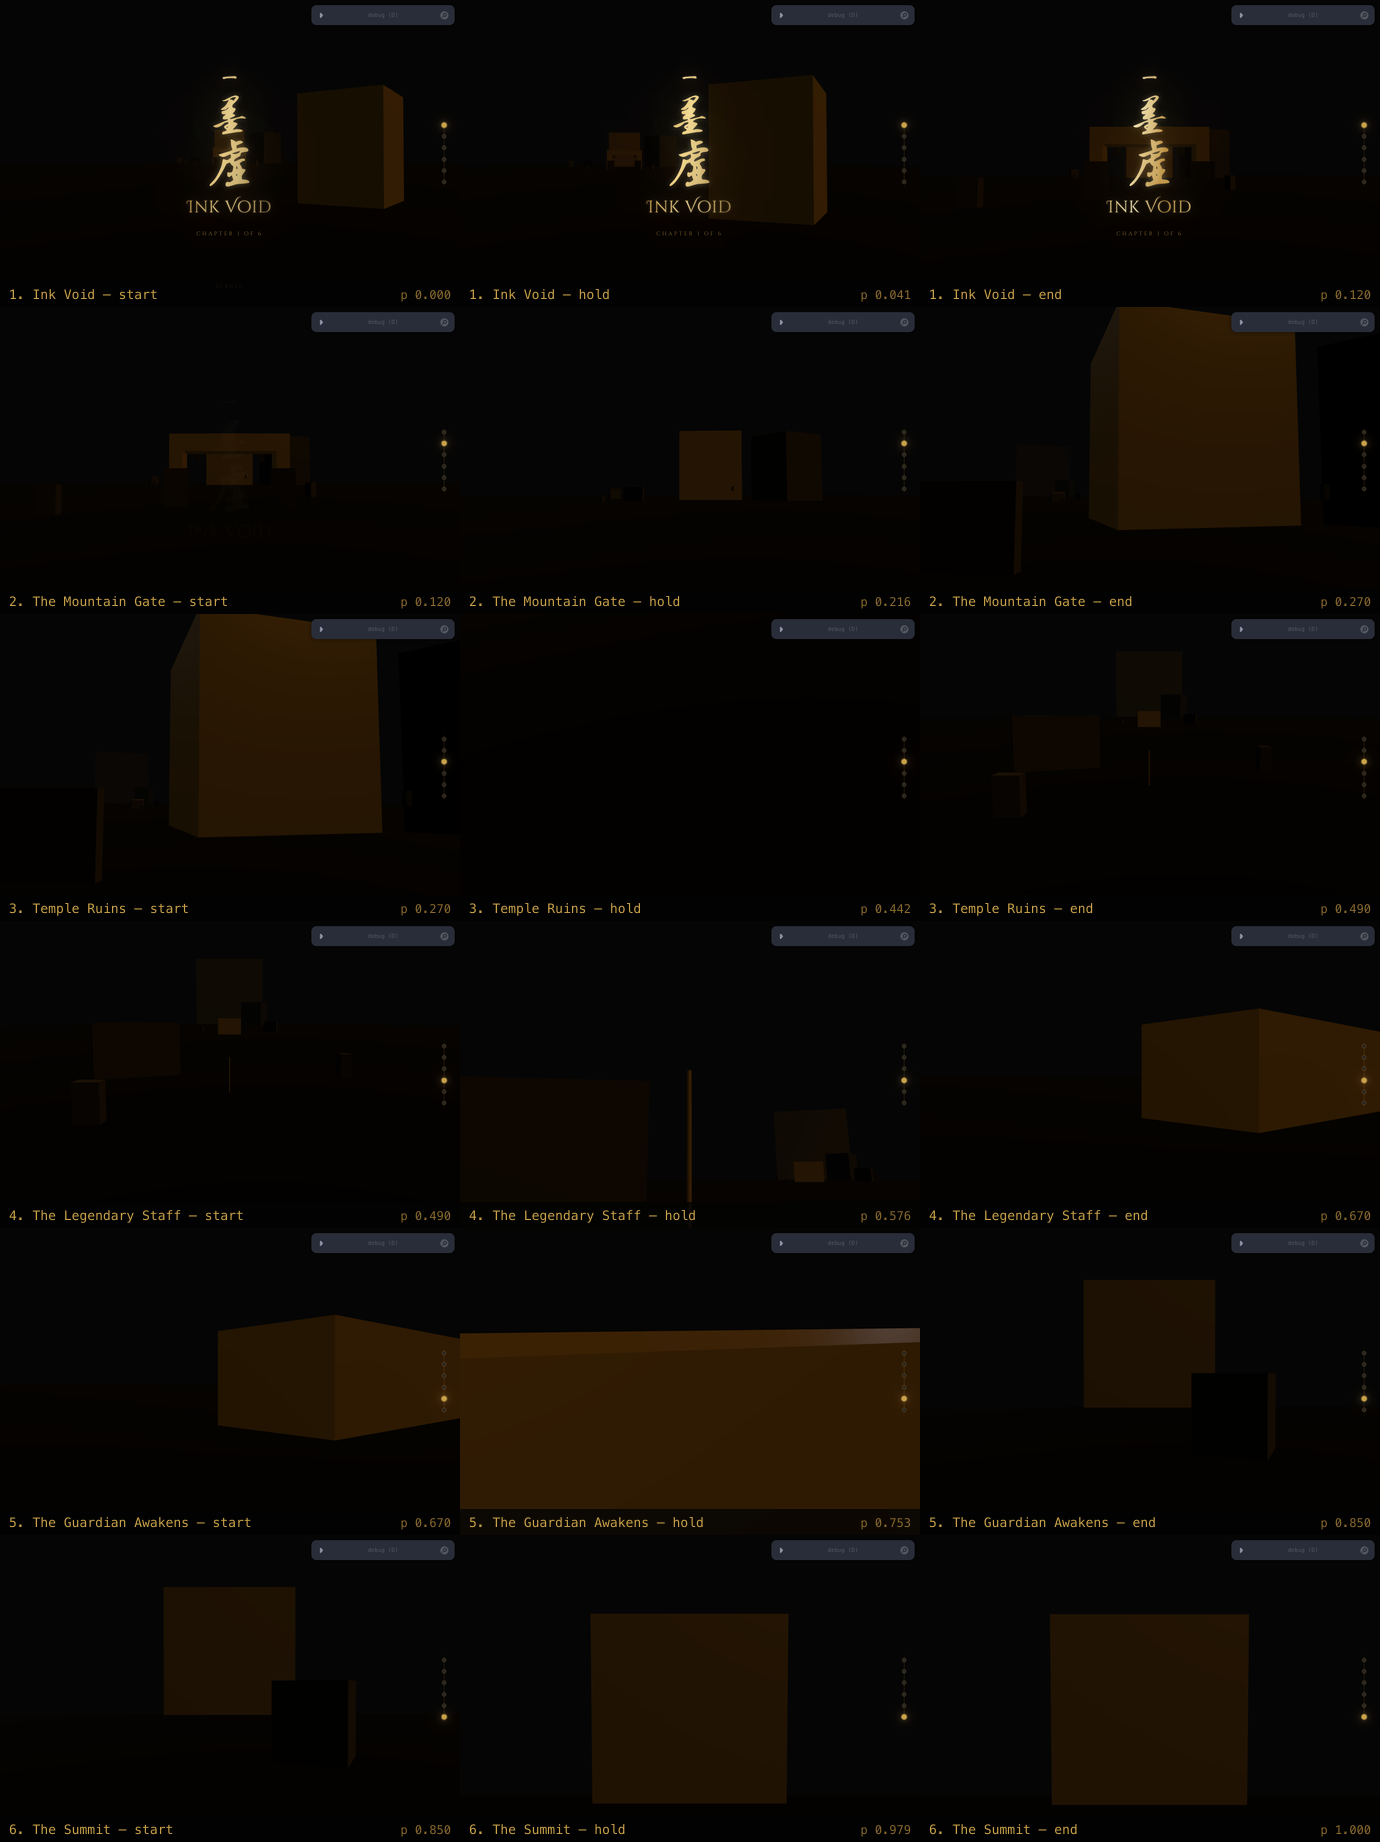
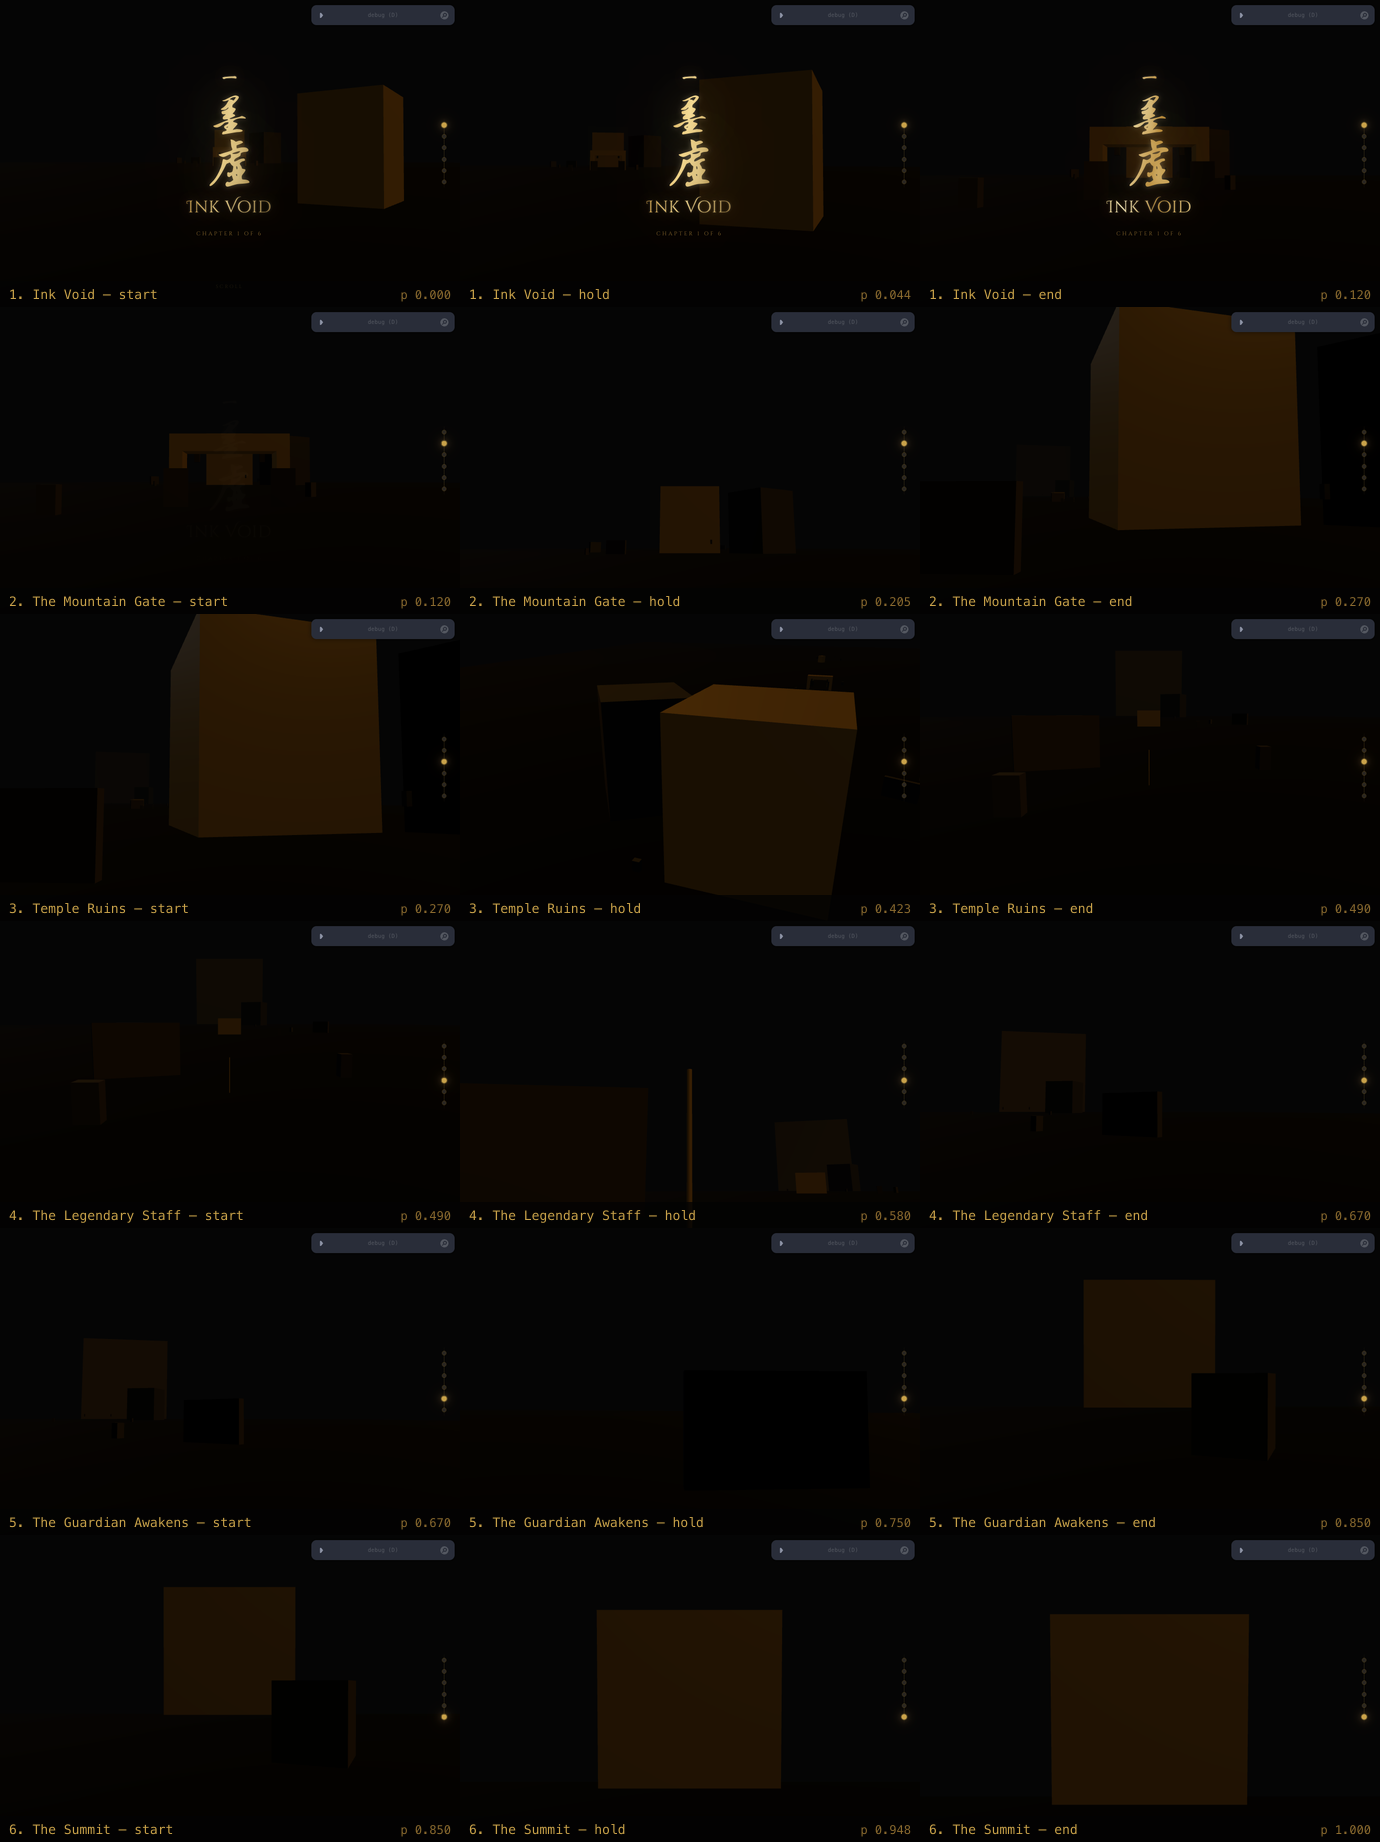
tune ch5: search looks away from the dragon; raise counter-light
The hold still framed the dragon as a wall because the look-at was
aimed at it. You cannot reveal something the camera has been staring
at, so the search now sweeps right, across, right again, and only
keypoint 4 turns back as the camera is pulled up and away.

Raised the cool counter-light 0.45 -> 0.95. With the key at +x, any
prop the camera looks at from its -x side showed only shadowed faces,
and chapter 5's hold came out solid black. The fill makes shadow sides
readable without flattening the key.

diff --git a/src/config/chapters.ts b/src/config/chapters.ts
@@ -201,11 +201,13 @@ export const CHAPTERS: Chapter[] = [
     // 40 m body at 2 m eye height is a wall across the whole frame, which
     // gives the reveal away — nothing can "appear" if it was already filling
     // the shot.
-    camera: [[22, 2.1, -436], [19, 2.0, -450], [16, 2.4, -462],
+    camera: [[24, 2.1, -436], [21, 2.0, -450], [18, 2.4, -462],
              [0, 26, -492], [-12, 36, -518]],
-    // Searching: left, right, left again while low, then tilts up as the
-    // camera is yanked backwards.
-    lookAt: [[-6, 2.0, -452], [14, 1.8, -464], [-2, 2.2, -470],
+    // The search looks AWAY from the dragon — out to the right, then across,
+    // then right again. Aiming at it during the search is self-defeating: you
+    // cannot reveal something the camera has been staring at for 20 seconds.
+    // Only keypoint 4 turns back, as the camera is yanked up and away.
+    lookAt: [[26, 3.0, -446], [6, 2.2, -480], [25, 3.0, -468],
              [0, 7, -478], [0, 4, -482]],
     // Keypoint 2: the end of the search, immediately before the pull-back.
     hold: { on: 2, width: 0.38, slow: 0.15 },
@@ -213,8 +215,8 @@ export const CHAPTERS: Chapter[] = [
       // 40 m along Z — the longest object in the world.
       { modelId: 'chinese_dragon', position: [0, 0, -470], hero: true, label: 'dragon' },
       { modelId: 'stylized_rock', position: [13.5, 0, -450], label: 'rock' },
-      { modelId: 'stylized_rock', position: [-10, 0, -488], rotationY: 0.9, label: 'rock' },
-      { modelId: 'broken_medieval_column_set', position: [14, 0, -478], rotationY: -0.8, label: 'columns' },
+      { modelId: 'stylized_rock', position: [21, 0, -477], rotationY: 0.9, label: 'rock' },
+      { modelId: 'broken_medieval_column_set', position: [29, 0, -468], rotationY: -0.8, label: 'columns' },
     ],
   },
   {

diff --git a/src/scene/Lights.tsx b/src/scene/Lights.tsx
@@ -17,8 +17,12 @@ export function Lights() {
         intensity={1.7}
         color="#C9A24A"
       />
-      {/* A cool counter-light, very low, to keep the dark sides from going flat. */}
-      <directionalLight position={[-30, 20, -40]} intensity={0.45} color="#3d4654" />
+      {/* Cool counter-light. Raised from 0.45 to 0.95 after chapter 5's hold
+          came out black: the key sits at +x, so any prop the camera looks at
+          from its -x side shows only shadowed faces. This is the fill that
+          stops those reading as silhouettes, and it keeps the shadow side
+          cool against the warm key rather than flattening it. */}
+      <directionalLight position={[-30, 20, -40]} intensity={0.95} color="#3d4654" />
     </>
   );
 }
